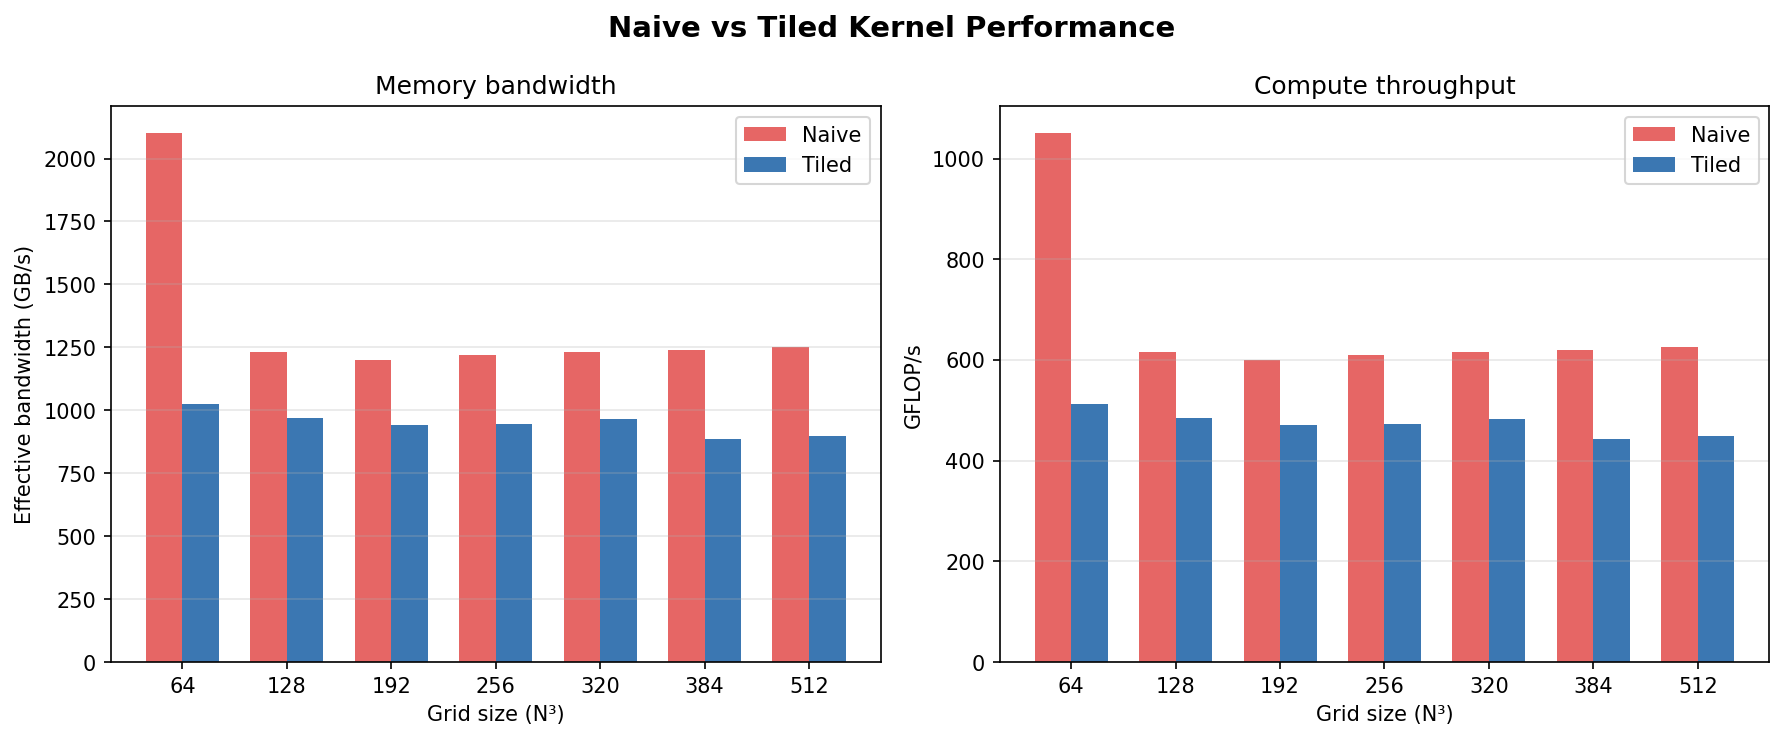
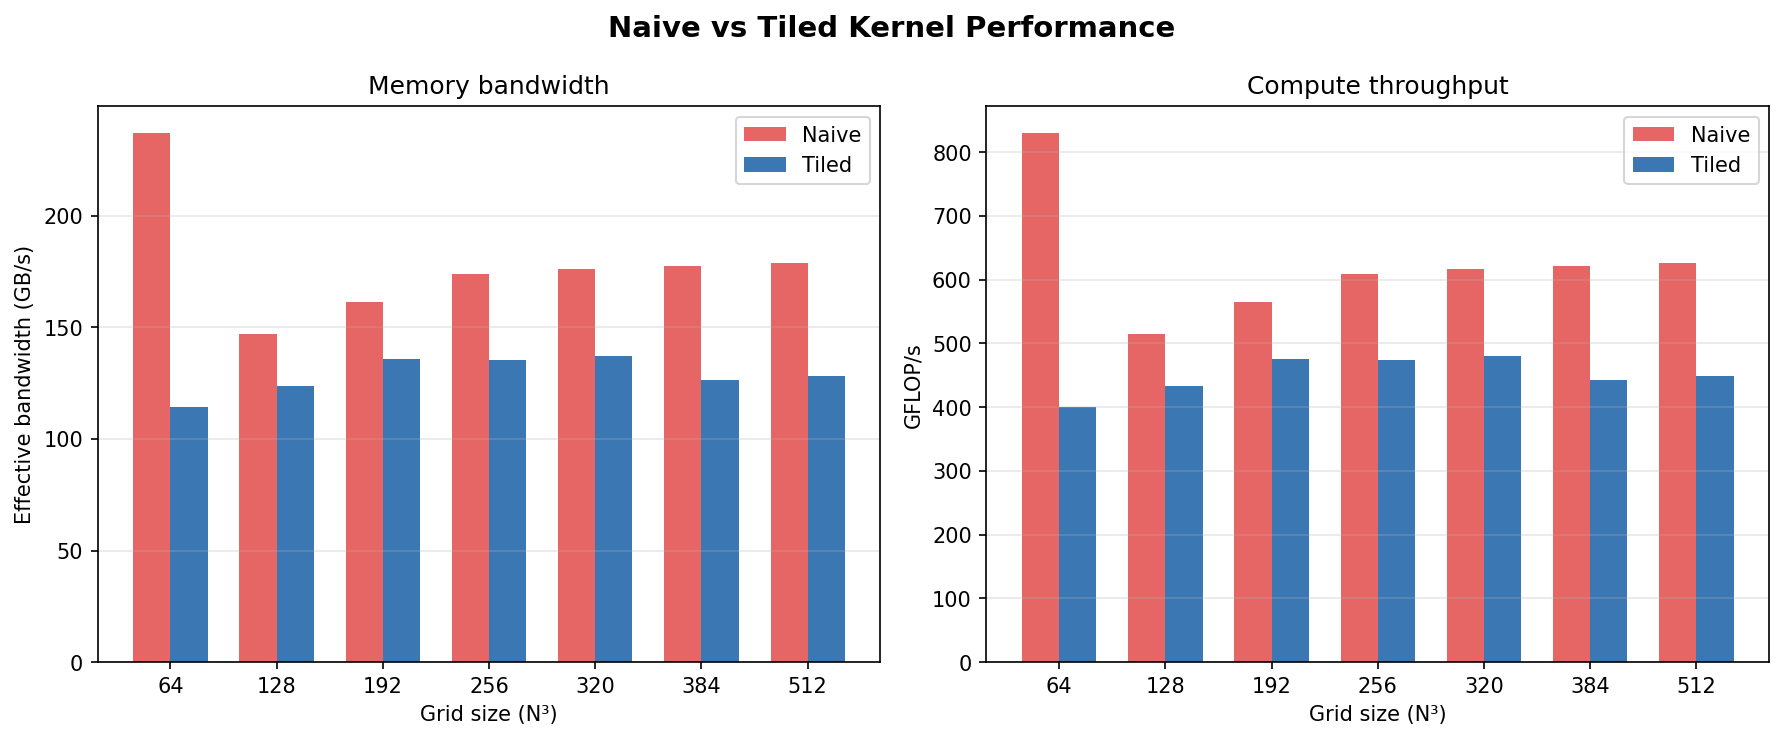
docs: regenerate benchmarks and plots with compulsory-traffic bandwidth

diff --git a/docs/BENCHMARKS.md b/docs/BENCHMARKS.md
@@ -8,15 +8,15 @@
 
 | Grid | Naive BW (GB/s) | Tiled BW (GB/s) | Speedup |
 |------|----------------|----------------|---------|
-| 64³ | 2101.5 | 1024.0 | **0.49×** |
-| 128³ | 1230.3 | 968.7 | **0.79×** |
-| 192³ | 1199.1 | 943.3 | **0.79×** |
-| 256³ | 1221.1 | 945.4 | **0.77×** |
-| 320³ | 1233.4 | 964.0 | **0.78×** |
-| 384³ | 1240.0 | 886.4 | **0.71×** |
-| 512³ | 1250.8 | 896.6 | **0.72×** |
+| 64³ | 237.2 | 114.5 | **0.48×** |
+| 128³ | 147.0 | 123.6 | **0.84×** |
+| 192³ | 161.4 | 135.9 | **0.84×** |
+| 256³ | 173.9 | 135.4 | **0.78×** |
+| 320³ | 176.2 | 137.2 | **0.78×** |
+| 384³ | 177.3 | 126.5 | **0.71×** |
+| 512³ | 178.9 | 128.2 | **0.72×** |
 
-**Average speedup: 0.72×**
+**Average speedup: 0.74×**
 
 ## Plots
 
